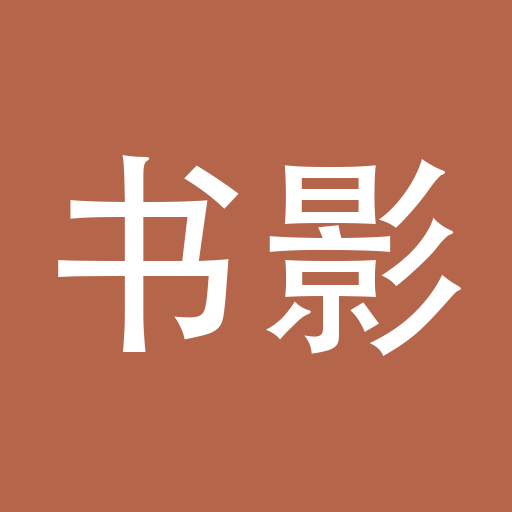
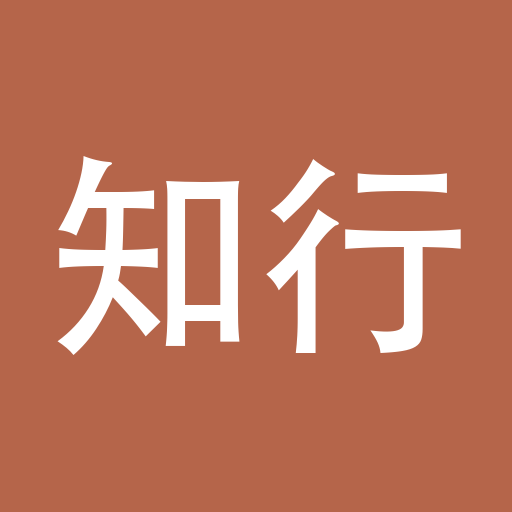
Rename site to 知行合一AI实验室
Updates page titles, nav bar, login page, PWA manifest/icons, and
share-card watermarks. Historical changelog/README entries that
mention the old name (书影追踪) are left as-is for accuracy.

Changed region(s): [[0.5, 0.3125, 0.9062, 0.6875], [0.0938, 0.2812, 0.4688, 0.6875]]

diff --git a/templates/base.html b/templates/base.html
@@ -3,18 +3,18 @@
 <head>
   <meta charset="utf-8">
   <meta name="viewport" content="width=device-width, initial-scale=1">
-  <title>{% block title %}我的书影追踪{% endblock %}</title>
+  <title>{% block title %}我的知行合一AI实验室{% endblock %}</title>
   <link rel="stylesheet" href="{{ url_for('static', filename='style.css') }}?v={{ asset_version }}">
   <link rel="manifest" href="{{ url_for('static', filename='manifest.json') }}">
   <meta name="theme-color" content="#b5654a">
   <link rel="apple-touch-icon" href="{{ url_for('static', filename='apple-touch-icon.png') }}">
   <meta name="apple-mobile-web-app-capable" content="yes">
   <meta name="apple-mobile-web-app-status-bar-style" content="black-translucent">
-  <meta name="apple-mobile-web-app-title" content="书影追踪">
+  <meta name="apple-mobile-web-app-title" content="知行合一AI实验室">
 </head>
 <body>
   <header class="topbar">
-    <a class="brand" href="{{ url_for('index') }}">📚🎬 书影追踪</a>
+    <a class="brand" href="{{ url_for('index') }}">📚🎬 知行合一AI实验室</a>
     <nav>
       <a href="{{ url_for('item_new', type='book') }}">+ 添加书</a>
       <a href="{{ url_for('item_new', type='show') }}">+ 添加剧</a>

diff --git a/templates/login.html b/templates/login.html
@@ -3,7 +3,7 @@
 <head>
   <meta charset="utf-8">
   <meta name="viewport" content="width=device-width, initial-scale=1">
-  <title>登录 · 书影追踪</title>
+  <title>登录 · 知行合一AI实验室</title>
   <link rel="stylesheet" href="{{ url_for('static', filename='style.css') }}?v={{ asset_version }}">
   <link rel="manifest" href="{{ url_for('static', filename='manifest.json') }}">
   <meta name="theme-color" content="#b5654a">
@@ -12,7 +12,7 @@
 <body>
   <main class="login-wrap">
     <form class="form login-form-box" method="post">
-      <h1 class="login-title">📚🎬 书影追踪</h1>
+      <h1 class="login-title">📚🎬 知行合一AI实验室</h1>
       <input type="hidden" name="next" value="{{ next }}">
       <label>
         密码

diff --git a/templates/index.html b/templates/index.html
@@ -1,5 +1,5 @@
 {% extends "base.html" %}
-{% block title %}我的书影追踪{% endblock %}
+{% block title %}知行合一AI实验室{% endblock %}
 {% block content %}
 
 <section class="heatmap-card">

diff --git a/changelog.py b/changelog.py
@@ -152,4 +152,16 @@ CHANGELOG = [
         "lines_changed": 40,
         "estimated": False,
     },
+    {
+        "date": "2026-07-22",
+        "title": "网站更名为「知行合一AI实验室」",
+        "summary": (
+            "网站从「书影追踪」改名为「知行合一AI实验室」——页面标题、导航栏、登录页、"
+            "PWA 图标和分享图水印都同步换了新名字。历史记录里提到旧名字的地方（比如项目起步那条）"
+            "保留不改，算是准确的历史记录。"
+        ),
+        "image": "rebrand.png",
+        "lines_changed": 25,
+        "estimated": False,
+    },
 ]

diff --git a/share_card.py b/share_card.py
@@ -241,7 +241,7 @@ def build_share_card(item, current_progress, total_minutes, comment_text):
     draw.text(((CARD_W - tw) / 2, CARD_H - 120), footer_text, font=footer_font, fill=MUTED)
 
     watermark_font = _font(24)
-    watermark = f"书影追踪 · {date.today().isoformat()}"
+    watermark = f"知行合一AI实验室 · {date.today().isoformat()}"
     bbox = draw.textbbox((0, 0), watermark, font=watermark_font)
     tw = bbox[2] - bbox[0]
     draw.text(((CARD_W - tw) / 2, CARD_H - 70), watermark, font=watermark_font, fill=MUTED)
@@ -404,7 +404,7 @@ def build_day_share_card(day, logs, moments, moment_types):
         fill=MUTED,
     )
 
-    watermark = f"书影追踪 · {date.today().isoformat()}"
+    watermark = f"知行合一AI实验室 · {date.today().isoformat()}"
     bbox = draw.textbbox((0, 0), watermark, font=footer_font)
     tw = bbox[2] - bbox[0]
     draw.text(((W - tw) / 2, H - 50), watermark, font=footer_font, fill=MUTED)
@@ -528,7 +528,7 @@ def build_changelog_share_card(entries, heading, heatmap=None):
     if heatmap:
         _draw_mini_heatmap(draw, pad, heatmap_top + 24, heatmap)
 
-    watermark = f"书影追踪 开发日志 · {date.today().isoformat()}"
+    watermark = f"知行合一AI实验室 开发日志 · {date.today().isoformat()}"
     bbox = draw.textbbox((0, 0), watermark, font=footer_font)
     tw = bbox[2] - bbox[0]
     draw.text(((W - tw) / 2, H - 50), watermark, font=footer_font, fill=MUTED)

diff --git a/README.md b/README.md
@@ -1,6 +1,6 @@
-# 书影追踪
+# 知行合一AI实验室
 
-一个个人用的本地网站，用来记录看过的书、剧，以及日常动态（股票关注、运动、照片、想法）。数据全部存在本地，不联网、不跟踪。
+一个个人用的本地网站，用来记录看过的书、剧，以及日常动态（股票关注、运动、照片、想法）。数据全部存在本地，不联网、不跟踪。原名"书影追踪"。
 
 ![首页](static/changelog/homepage.png)
 
@@ -44,6 +44,7 @@ python3 -m venv venv
 
 网站里有一个更完整的 [`/changelog`](templates/changelog.html) 页面（含代码量热力图、每日分享图），这里是精简版：
 
+- **2026-07-22** · 网站更名为「知行合一AI实验室」
 - **2026-07-22** · 更新日志分享图里也加上代码量热力图
 - **2026-07-22** · 更新日志加上代码量热力图
 - **2026-07-22** · 「今天」页面接入网站更新 + 更新日志一键分享图